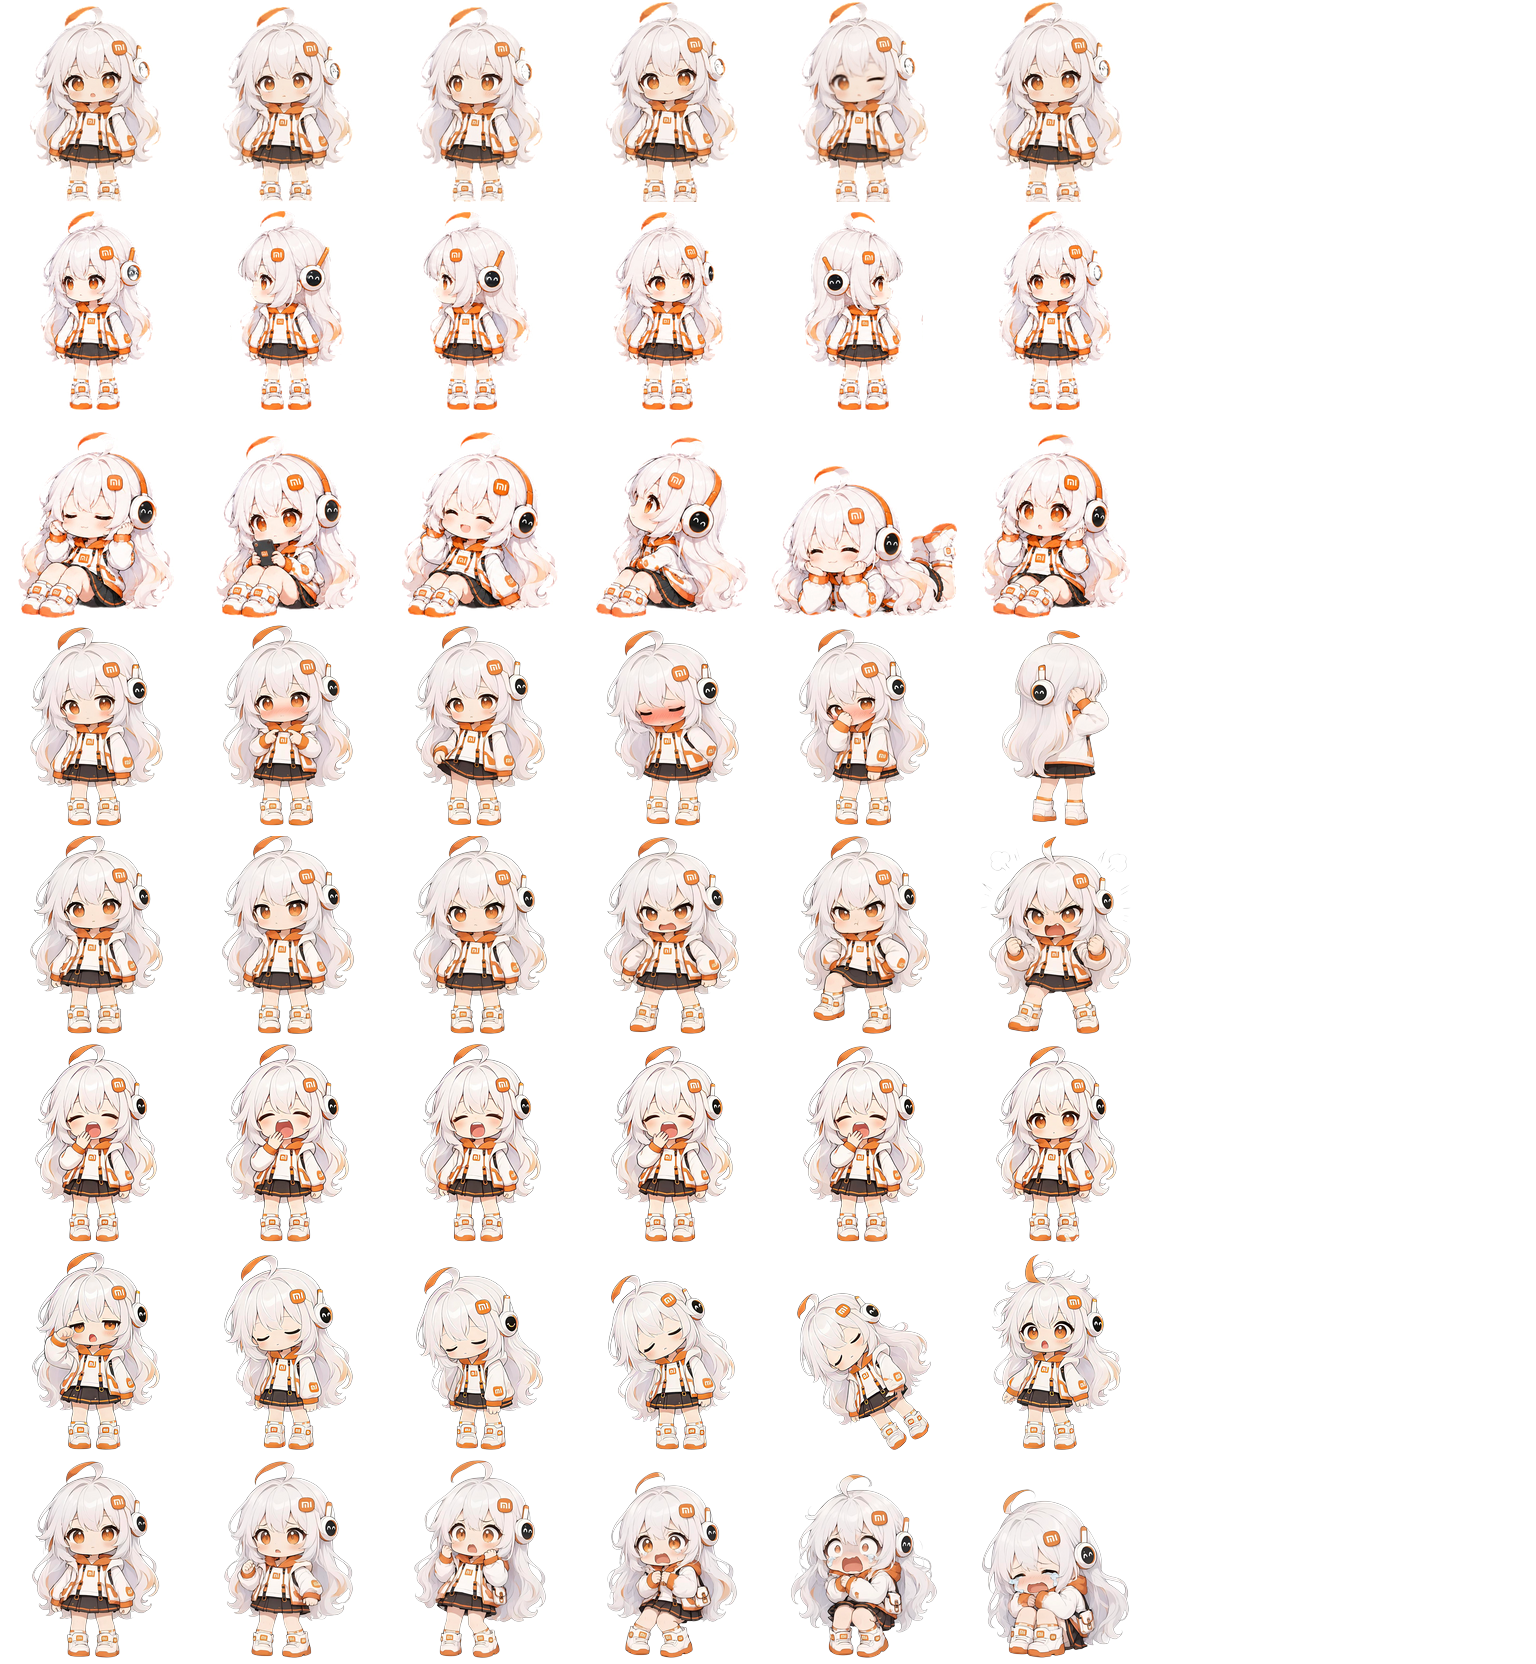
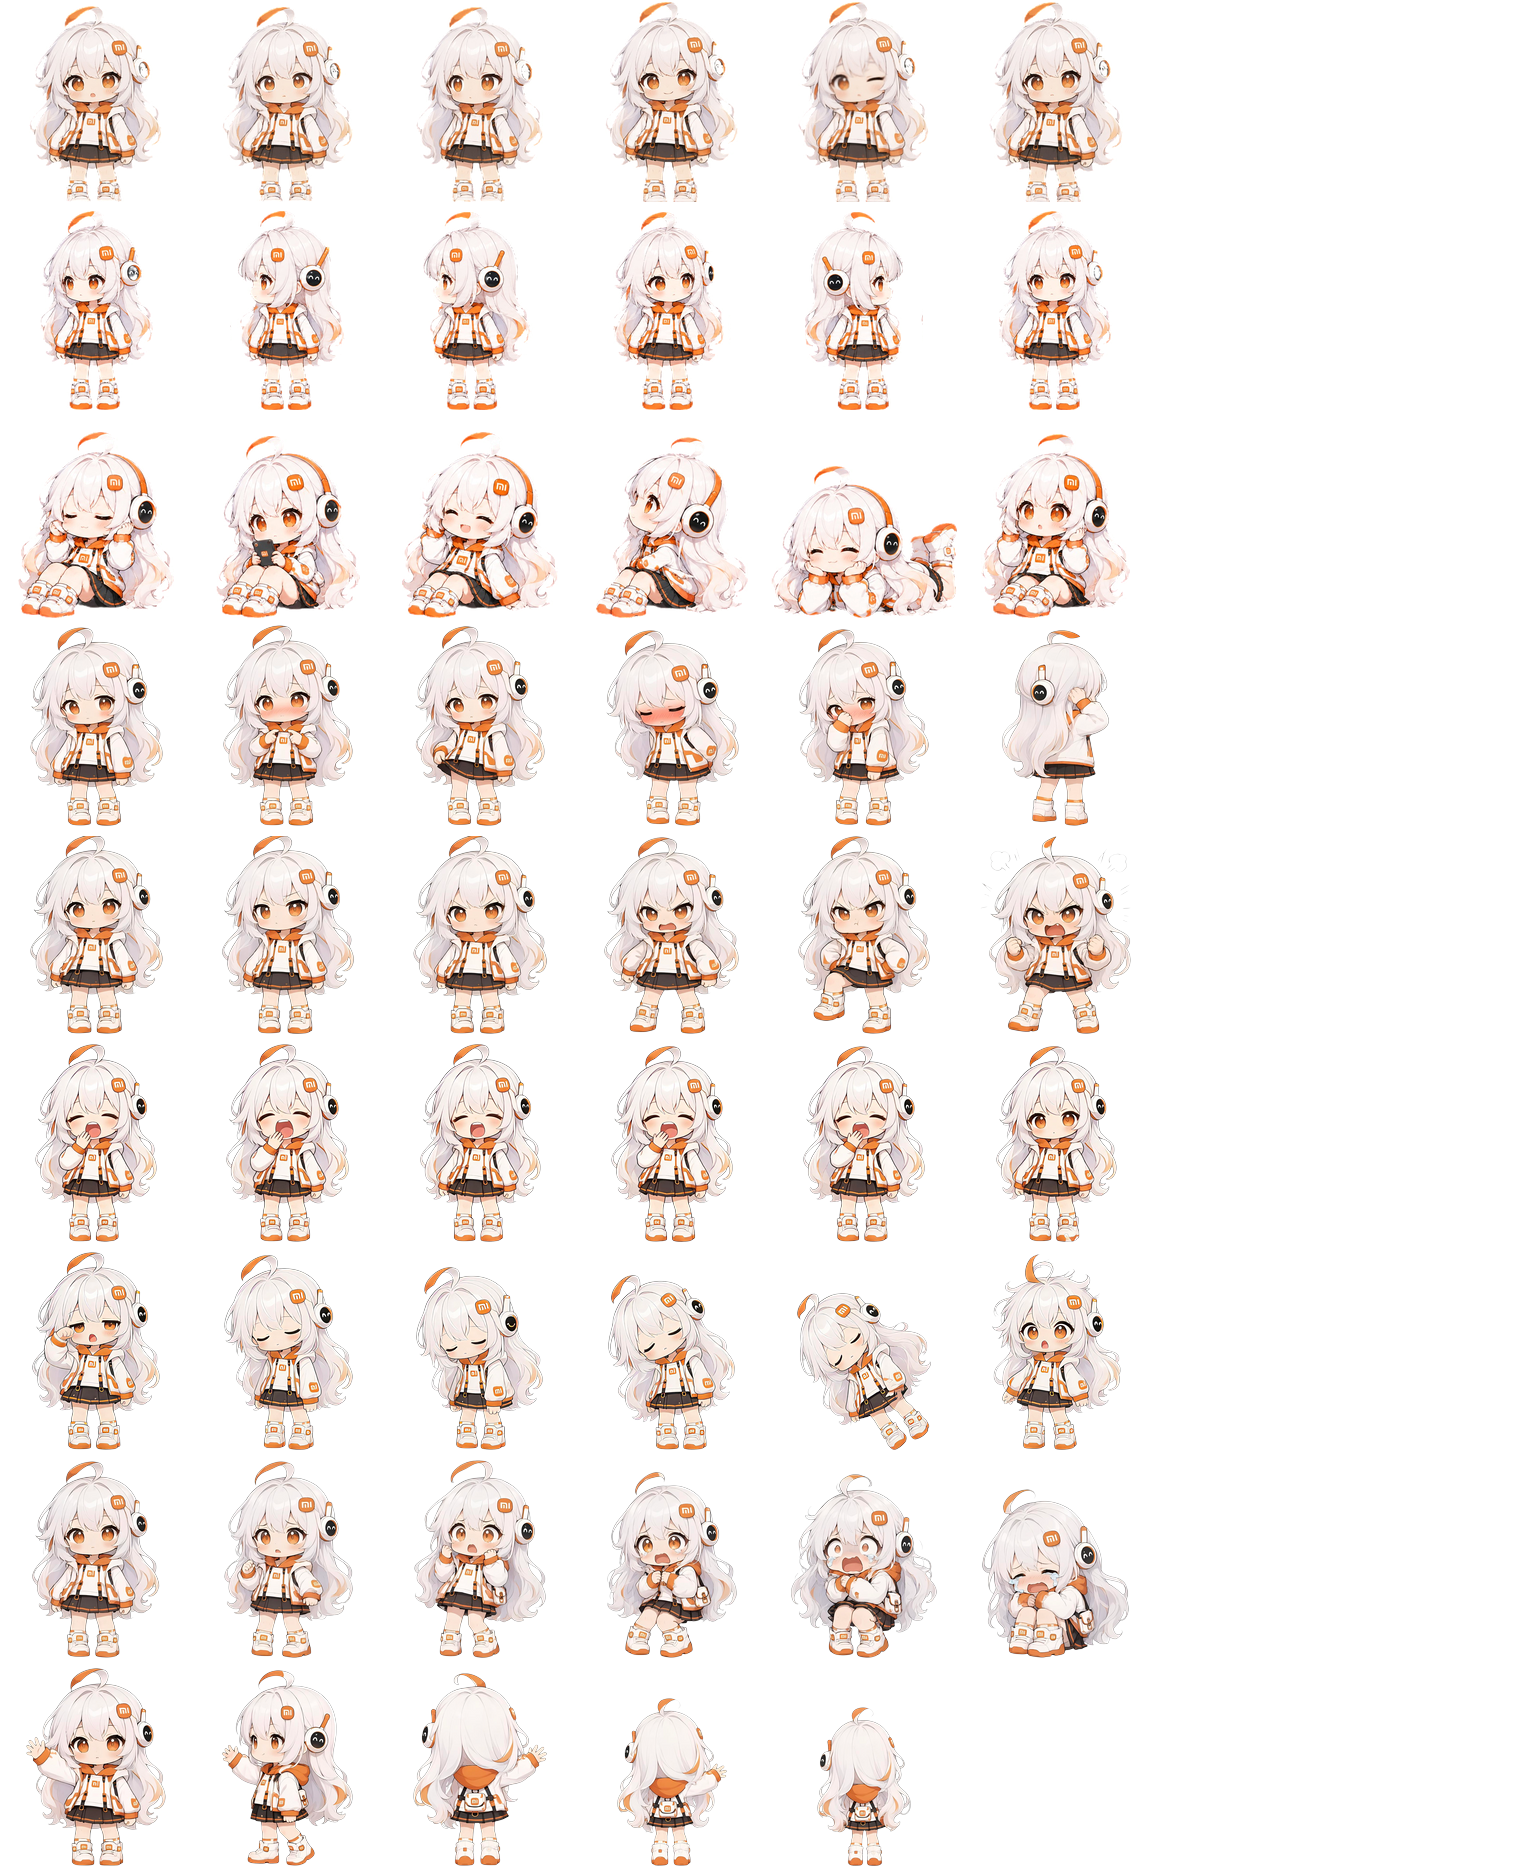
Add a farewell animation before quitting
Choosing 退出 from the right-click menu now plays a five-frame goodbye — she turns
away, waving, shrinking frame by frame as if walking off — then fades the window
out and only then quits. The shrinking is deliberate: the supplied sheet draws the
later frames smaller on purpose, so the row uses one uniform scale and bottoms out
on the same ground line, which reads as receding into the distance. Touching her
during the goodbye cancels the quit.

Changed region(s): [[0.0, 0.0, 0.75, 1.0]]

diff --git a/app/mimo_pet.py b/app/mimo_pet.py
@@ -67,6 +67,8 @@ EXTRA_STATES = {
     "doze":  (6, 6, [200, 18372, 18372, 18372, 18372, 300]),
     # 惊恐（余额预警专用）：每帧 6000ms ×1.6 ≈ 9.6s，整段约 60s，和提醒气泡同步
     "panic": (7, 6, [6000] * 5 + [7500]),
+    # 告别（点菜单"退出"时先播它，播完才退）：5 帧，整段约 4.8s
+    "farewell": (8, 5, [500, 500, 600, 500, 900]),
 }
 ALL_STATES = {**STATES, **EXTRA_STATES}
 # 休息时段轮流出现的动作（以前只有玩手机 / 干活中）
@@ -143,6 +145,7 @@ DRAG_WINDOW = 30.0          # seconds - window used to count "shoved around a lo
 DRAG_LIMIT = 3              # drags within the window before she gets grumpy
 HOVER_PET_SECONDS = 1.2     # cursor resting on her this long = 打招呼
 SLEEP_AFTER = 300.0         # s - 这么久没人碰她 -> 打哈欠 -> 打瞌睡（合计约 2 分钟）
+FADE_SECONDS = 0.7          # s - 告别动画播完后淡出消失用多久
 WAKE_HOLD = 0.45            # s - 睡梦中被碰到后，停在她"惊醒"那一帧多久
 CLICK_DELAY = 0.28          # wait this long to be sure a lone click is not a double click
 
@@ -381,7 +384,7 @@ def _sheet(path: Path | None = None) -> Image.Image:
     img = _sheet_cache.get(path)
     if img is None:
         img = Image.open(path).convert("RGBA")
-        expected = ((8 * CELL_W, 8 * CELL_H) if path == SHEET2
+        expected = ((8 * CELL_W, 9 * CELL_H) if path == SHEET2
                     else (8 * CELL_W, 9 * CELL_H))
         if img.size != expected:
             logging.warning("unexpected atlas size %s (expected %s) in %s",
@@ -484,6 +487,8 @@ class Pet:
         # 上次"有人碰她"的时刻：碰/点/拖/右键菜单都算，超过 SLEEP_AFTER 就去睡
         self.last_touch_at = time.perf_counter()
         self.waking = False          # 已经在"惊醒"这一刻里了，别每帧重复触发
+        self.quit_after = False      # 告别动画播完就退出
+        self.fade_start = 0.0        # 告别后淡出的起点（0 = 没在淡出）
         # --- 余额预警（邮件通道）---
         self.bubble = None           # 气泡窗口，run() 里建
         self.alert_cfg = None
@@ -839,7 +844,10 @@ class Pet:
                 logging.info("menu 动作 -> 走一段")
                 self.start_travel()
         elif cmd == 4:
-            u32.PostQuitMessage(0)
+            # 退出：先跟她好好告个别，播完再退
+            logging.info("退出：先播告别动画")
+            self.play(["farewell"])
+            self.quit_after = True
         elif cmd == 5:
             self.feed()
         elif cmd == 6:
@@ -1075,6 +1083,10 @@ class Pet:
     def play(self, steps: list[str]) -> None:
         """A user-triggered reaction; when it finishes she goes back to resting."""
         self.queue = list(steps)
+        self.quit_after = False        # 有别的新动作＝这次不退了
+        if self.fade_start:            # 正在淡出的话，撤销淡出、恢复不透明
+            self.fade_start = 0.0
+            self.blend.SourceConstantAlpha = 255
         self.walking = False
         self.target_x = None
         self.step_until = 0.0
@@ -1088,6 +1100,11 @@ class Pet:
                 # 一套动作（含"打哈欠 -> 打瞌睡"整段）播完 = 一轮结束，从这里重新开始计时
                 self.last_touch_at = time.perf_counter()
                 self.waking = False
+                if self.quit_after:
+                    self.quit_after = False
+                    logging.info("告别完了 -> 淡出并退出")
+                    self.fade_start = time.perf_counter()
+                    return
                 self.set_mode("idle")
                 self.phase = "pause"
                 self.phase_until = time.perf_counter() + 0.8
@@ -1130,6 +1147,15 @@ class Pet:
 
     def step(self, dt: float) -> None:
         now = time.perf_counter()
+        if self.fade_start:                       # 告别之后淡出消失，然后退出
+            frac = (now - self.fade_start) / FADE_SECONDS
+            if frac >= 1.0:
+                logging.info("已淡出 -> 退出")
+                u32.PostQuitMessage(0)
+                return
+            self.blend.SourceConstantAlpha = max(1, int(round(255 * (1.0 - frac))))
+            self._blit(self.frames[self.mode][-1])      # 定格最后一帧，逐渐消失
+            return
         self._watch_topmost(now)
         self._step_knock(dt)
         self._pump_alert(now)

diff --git a/README.md b/README.md
@@ -4,7 +4,7 @@
 
 ## 下载（推荐）
 
-**[📥 下载安装包 MimoPet-Setup-1.1.13.exe](https://github.com/Darry-cpu/mimo-pet/releases/latest)**
+**[📥 下载安装包 MimoPet-Setup-1.1.14.exe](https://github.com/Darry-cpu/mimo-pet/releases/latest)**
 
 双击即可安装，**无需管理员权限、无需安装 Python**。全部版本见 [Releases](https://github.com/Darry-cpu/mimo-pet/releases)。
 
@@ -52,11 +52,11 @@ python app/mimo_pet.py          # 需要 Python 3.10+ 且安装 Pillow
 | 20~30 秒内连续挪动 3 次 | 它会闹脾气：**沮丧 / 生气 二选一（随机）** |
 | 左键拖动 | **弹簧跟手**地跟着鼠标走（不抖、不飘、不过冲）；**拖不出屏幕**——推到边缘会被挡住，硬往边上挤时她会朝屏幕内**弹几下** |
 | **快速甩出去** | 沿抛物线飞出去：撞屏幕边会弹回、落地有摩擦减速，最后自己站起来接着逛 |
-| 右键 | 菜单：投喂 / 抚摸 / 暂停 / 放大 / 缩小 / **动作 ▸** / **余额预警 ▸** / 退出 |
+| 右键 | 菜单：投喂 / 抚摸 / 暂停 / 放大 / 缩小 / **动作 ▸** / **余额预警 ▸** / **退出**（退出前她会先跟你告个别，约 5 秒） |
 | 右键 → 动作 | 点播任意动画：待机 / 挥挥手 / 跳一下 / 沮丧一下 / 玩手机 / 干活中 / 吃点东西 / **发呆 / 摇头 / 听歌 / 害羞 / 生气 / 打哈欠 / 打瞌睡**，还能让它**走一段** |
 | **5 分钟没人碰它** | 先打个哈欠，接着打瞌睡（合计约 **2 分钟**），第 6 帧"惊醒"作为收尾，醒来回到日常并重新计时 |
 
-17 套动画：待机、向右跑、向左跑、挥手、跳跃、沮丧、玩手机、干活中、吃饭中，以及**发呆、摇头、听歌、害羞、生气、打哈欠、打瞌睡、惊恐**（后八套在独立的 `assets/animations-extra.webp`，不占 ChatGPT/Codex 宠物 8x9 图集契约的行）。其中**害羞**只在鼠标碰到她时接在挥手后面播；**生气**和沮丧共用"被弄烦了"这个触发点，每次二选一；**打哈欠 + 打瞌睡**只在"5 分钟没人碰她"时按顺序自动触发；**惊恐**是余额预警专用的。这几套都不在休息随机池里。
+18 套动画：待机、向右跑、向左跑、挥手、跳跃、沮丧、玩手机、干活中、吃饭中，以及**发呆、摇头、听歌、害羞、生气、打哈欠、打瞌睡、惊恐、告别**（后九套在独立的 `assets/animations-extra.webp`，不占 ChatGPT/Codex 宠物 8x9 图集契约的行）。其中**害羞**只在鼠标碰到她时接在挥手后面播；**生气**和沮丧共用"被弄烦了"这个触发点，每次二选一；**打哈欠 + 打瞌睡**只在"5 分钟没人碰她"时按顺序自动触发；**惊恐**是余额预警专用；**告别**是点菜单「退出」时专用（播完才真的退出，5 帧）。这几套都不在休息随机池里。
 
 休息时段会从 **玩手机 / 干活中 / 发呆 / 摇头 / 听歌** 里随机挑一个播（约 30 秒一轮，播完短暂停顿再换下一个）；右键「动作 ▸」里也能主动点播这三套。
 
@@ -108,9 +108,10 @@ iscc mimo_setup.iss
 - 透明背景，未使用格子必须全透明
 - 每行帧数（图集里实际存的）：`[8, 8, 8, 8, 6, 6, 8, 6, 6]`，素材只有 6 帧的行后 2 格留空
 - 本应用一律按 `6` 帧播放（各行的播放时长见 `app/mimo_pet.py` 的 `STATES`）
-- 附加图集 `assets/animations-extra.webp` 规格相同（每格 `192 x 208`），但为 `1536 x 1664`、`8` 列 × `8` 行：
+- 附加图集 `assets/animations-extra.webp` 规格相同（每格 `192 x 208`），但为 `1536 x 1872`、`8` 列 × `9` 行：
   行 0 `daze` 发呆 / 行 1 `shake` 摇头 / 行 2 `music` 听歌 / 行 3 `shy` 害羞 / 行 4 `angry` 生气 /
-  行 5 `yawn` 打哈欠 / 行 6 `doze` 打瞌睡 / 行 7 `panic` 惊恐，每行 6 帧、后 2 格留空
+  行 5 `yawn` 打哈欠 / 行 6 `doze` 打瞌睡 / 行 7 `panic` 惊恐 / 行 8 `farewell` 告别，
+  其中行 8 只有 **5 帧**（后 3 格留空），其余每行 6 帧、后 2 格留空
 
 | 行 | 状态 | 含义 |
 |---|---|---|
